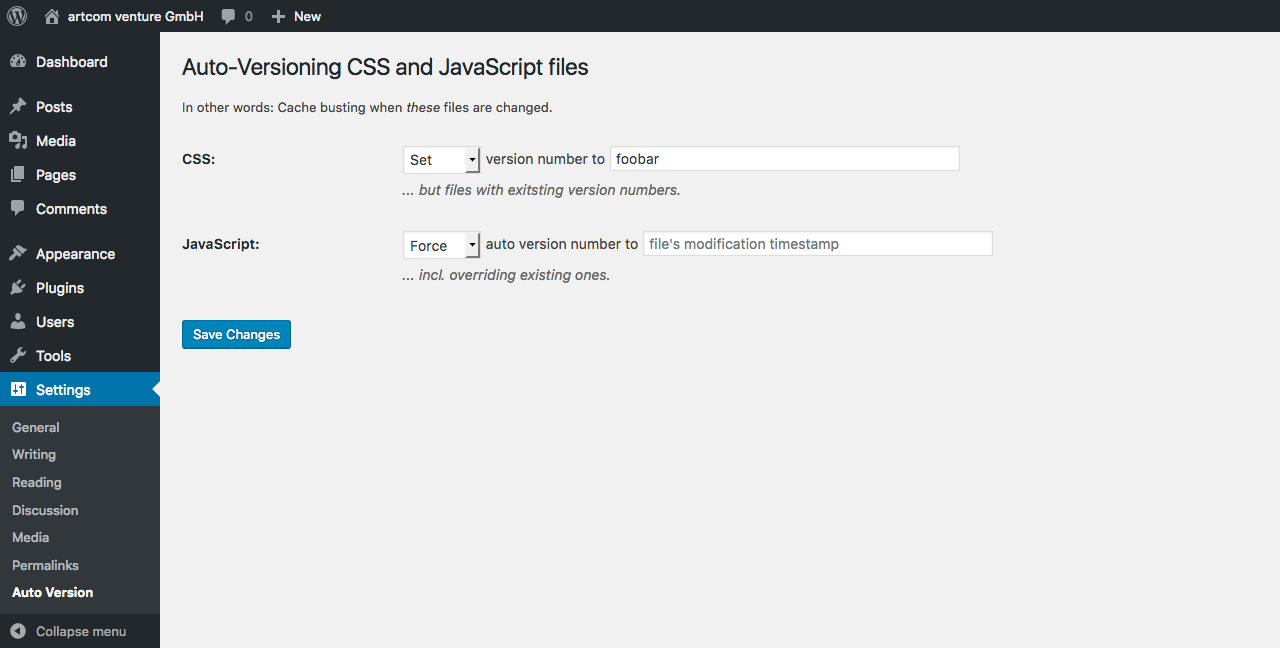
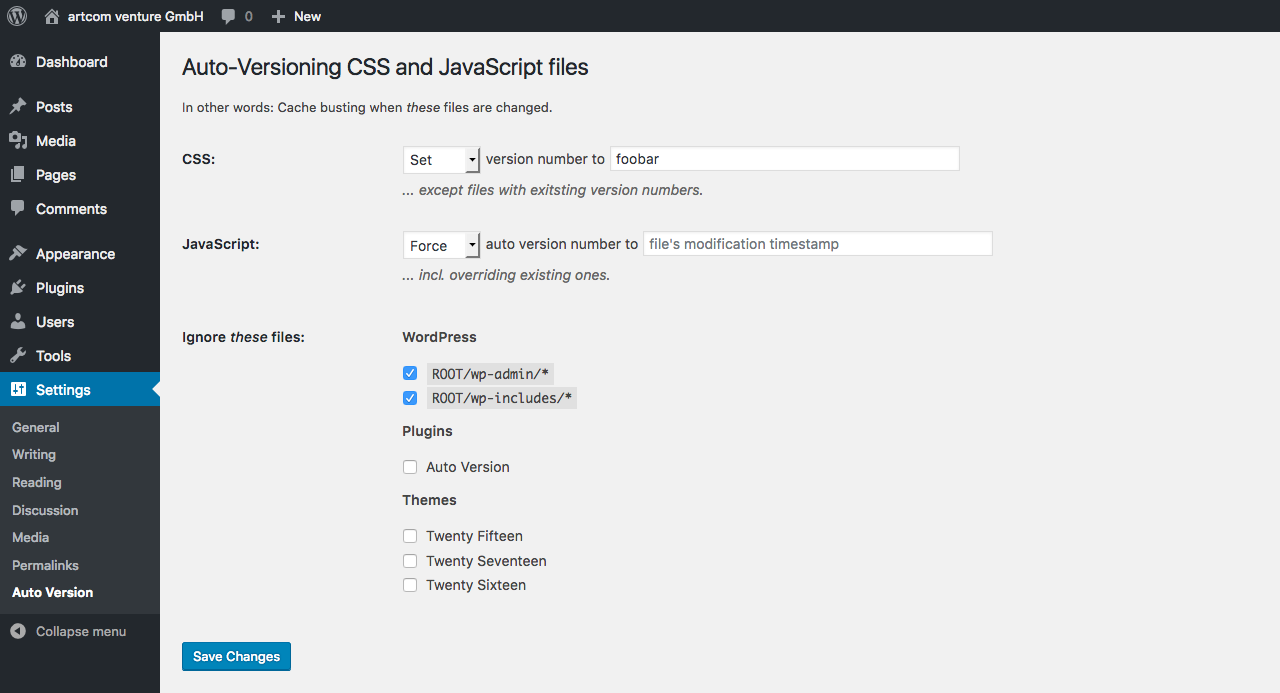
Ignore specific (WP, plugins, themes) files.

diff --git a/auto-version.php b/auto-version.php
@@ -3,8 +3,8 @@
 /**
  * Plugin Name: Auto Version
  * Plugin URI: https://github.com/artcomventure/wordpress-plugin-autoVersion
- * Description: Auto-versioning CSS and JavaScript files
- * Version: 1.0.1
+ * Description: Auto-Versioning CSS and JavaScript files
+ * Version: 1.1.0
  * Text Domain: autoversion
  * Author: artcom venture GmbH
  * Author URI: http://www.artcom-venture.de/
@@ -34,27 +34,54 @@ function autoversion_scripts() {
 	$home_path = ( function_exists( 'get_home_path' ) ? get_home_path() : $_SERVER['DOCUMENT_ROOT'] );
 	$home_url  = preg_quote( get_home_url(), '/' );
 
+	$wp_plugin_dir = WP_PLUGIN_DIR;
+	$wp_theme_dir = dirname( TEMPLATEPATH );
+
 	$settings = autoversion_get_settings();
 
 	// get all css and js files
-	foreach ( array( 'css' => wp_styles(), 'js' => wp_scripts() ) as $type => $files ) {
+	foreach ( array( 'css' => wp_styles(), 'js' => wp_scripts() ) as $filetype => $files ) {
 		// disabled
-		if ( !$settings[$type]['status'] ) continue;
+		if ( !$settings[$filetype]['status'] ) continue;
 
 		// loop through files
-		foreach ( $files->registered as $file ) {
+		foreach ( $files->registered as $data ) {
 			// no version at all
-			if ( is_null( $file->ver ) ) continue;
+			if ( is_null( $data->ver ) ) continue;
 			// no file source OR is no local file
-			if ( ! is_string( $file->src ) || ! preg_match( '/^(\/|' . $home_url . ')/', $file->src ) ) continue;
+			if ( ! is_string( $data->src ) || ! preg_match( '/^(\/|' . $home_url . ')/', $data->src ) ) continue;
 			// don't override existing version numbers
-			if ( $settings[$type]['status'] == 1 && is_string( $file->ver ) ) continue;
+			if ( $settings[$filetype]['status'] == 1 && is_string( $data->ver ) ) continue;
+
+			// relative path from root
+			$file_src = $home_path . preg_replace( '/^' . $home_url . '/', '', $data->src );
+
+			// loop through files to ignore
+			foreach ( $settings['ignore'] as $type => $list ) {
+				foreach ( array_filter( $list ) as $file => $ignore ) {
+					if ( ( $pattern = dirname( $file ) ) == '.' ) $pattern = $file;
+
+					if ( preg_match( '#^' . ( $type == 'plugins' ? $wp_plugin_dir : ( $type == 'themes' ? $wp_theme_dir : $home_path ) ) . '/(' . $pattern . ')#', $file_src ) ) {
+						$file_src = false;
+						continue;
+					}
+				}
+
+				if ( !$file_src ) continue;
+			}
+
+			if ( !$file_src ) continue;
+
+			$version = $data->ver;
 
 			// change version number
 			// to entered version _number_ or to file's modification timestamp
-			$file->ver = $settings[$type]['ver'] === ''
-				? @filemtime( $home_path . preg_replace( '/^' . $home_url . '/', '', $file->src ) )
-				: $settings[$type]['ver'];
+			$data->ver = $settings[$filetype]['ver'] === ''
+				? @filemtime( $file_src )
+				: $settings[$filetype]['ver'];
+
+			// revert
+			if ( is_null( $data->ver ) ) $data->ver = $version;
 		}
 	}
 }

diff --git a/build/auto-version.php b/build/auto-version.php
@@ -3,8 +3,8 @@
 /**
  * Plugin Name: Auto Version
  * Plugin URI: https://github.com/artcomventure/wordpress-plugin-autoVersion
- * Description: Auto-versioning CSS and JavaScript files
- * Version: 1.0.1
+ * Description: Auto-Versioning CSS and JavaScript files
+ * Version: 1.1.0
  * Text Domain: autoversion
  * Author: artcom venture GmbH
  * Author URI: http://www.artcom-venture.de/
@@ -34,27 +34,54 @@ function autoversion_scripts() {
 	$home_path = ( function_exists( 'get_home_path' ) ? get_home_path() : $_SERVER['DOCUMENT_ROOT'] );
 	$home_url  = preg_quote( get_home_url(), '/' );
 
+	$wp_plugin_dir = WP_PLUGIN_DIR;
+	$wp_theme_dir = dirname( TEMPLATEPATH );
+
 	$settings = autoversion_get_settings();
 
 	// get all css and js files
-	foreach ( array( 'css' => wp_styles(), 'js' => wp_scripts() ) as $type => $files ) {
+	foreach ( array( 'css' => wp_styles(), 'js' => wp_scripts() ) as $filetype => $files ) {
 		// disabled
-		if ( !$settings[$type]['status'] ) continue;
+		if ( !$settings[$filetype]['status'] ) continue;
 
 		// loop through files
-		foreach ( $files->registered as $file ) {
+		foreach ( $files->registered as $data ) {
 			// no version at all
-			if ( is_null( $file->ver ) ) continue;
+			if ( is_null( $data->ver ) ) continue;
 			// no file source OR is no local file
-			if ( ! is_string( $file->src ) || ! preg_match( '/^(\/|' . $home_url . ')/', $file->src ) ) continue;
+			if ( ! is_string( $data->src ) || ! preg_match( '/^(\/|' . $home_url . ')/', $data->src ) ) continue;
 			// don't override existing version numbers
-			if ( $settings[$type]['status'] == 1 && is_string( $file->ver ) ) continue;
+			if ( $settings[$filetype]['status'] == 1 && is_string( $data->ver ) ) continue;
+
+			// relative path from root
+			$file_src = $home_path . preg_replace( '/^' . $home_url . '/', '', $data->src );
+
+			// loop through files to ignore
+			foreach ( $settings['ignore'] as $type => $list ) {
+				foreach ( array_filter( $list ) as $file => $ignore ) {
+					if ( ( $pattern = dirname( $file ) ) == '.' ) $pattern = $file;
+
+					if ( preg_match( '#^' . ( $type == 'plugins' ? $wp_plugin_dir : ( $type == 'themes' ? $wp_theme_dir : $home_path ) ) . '/(' . $pattern . ')#', $file_src ) ) {
+						$file_src = false;
+						continue;
+					}
+				}
+
+				if ( !$file_src ) continue;
+			}
+
+			if ( !$file_src ) continue;
+
+			$version = $data->ver;
 
 			// change version number
 			// to entered version _number_ or to file's modification timestamp
-			$file->ver = $settings[$type]['ver'] === ''
-				? @filemtime( $home_path . preg_replace( '/^' . $home_url . '/', '', $file->src ) )
-				: $settings[$type]['ver'];
+			$data->ver = $settings[$filetype]['ver'] === ''
+				? @filemtime( $file_src )
+				: $settings[$filetype]['ver'];
+
+			// revert
+			if ( is_null( $data->ver ) ) $data->ver = $version;
 		}
 	}
 }

diff --git a/build/inc/settings.form.php b/build/inc/settings.form.php
@@ -22,7 +22,7 @@
 						<select name="autoversion[<?php echo $type ?>][status]">
 							<option value="0" title=""<?php selected( 0, $settings[$type]['status'] ) ?>><?php _e( 'Disable', 'autoversion' ); ?></option>
 							<option value="1"<?php selected( 1, $settings[$type]['status'] ) ?>
-							        title="<?php _e( '... but files with exitsting version numbers.', 'autoversion' ) ?>">
+							        title="<?php _e( '... except files with exitsting version numbers.', 'autoversion' ) ?>">
 								<?php _e( 'Set', 'autoversion' ); ?>
 							</option>
 							<option value="2"<?php selected( 2, $settings[$type]['status'] ) ?>
@@ -38,6 +38,40 @@
 				</tr>
 
 			<?php endforeach; ?>
+
+			</tbody>
+		</table>
+
+		<table class="form-table">
+			<tbody>
+			<tr valign="top">
+				<th scope="row">
+					<?php _e( 'Ignore <i>these</i> files', 'autoversion' ); ?>:
+				</th>
+				<td>
+					<?php foreach ( array(
+						__( 'WordPress' ) => array( 'wp-admin' => array( 'Name' => '<code>ROOT/wp-admin/*</code>' ), 'wp-includes' => array( 'Name' => '<code>ROOT/wp-includes/*</code>' ) ),
+						'Plugins' => get_plugins(),
+						'Themes' => wp_get_themes()
+					) as $type => $list ) :
+						if ( !count( $list ) ) continue;
+
+						printf( '<h4 style="margin-top: 5px;">%s</h4>', __( $type, 'autoversion' ) ); ?>
+						<ul>
+						<?php foreach ( $list as $file => $data ) : ?>
+							<li>
+								<label style="display: block;">
+									<input type="checkbox" class="regular-checkbox"
+									       name="autoversion[ignore][<?php echo strtolower( $type ) ?>][<?php echo $file ?>]"
+									       value="1"<?php checked( $settings['ignore'][strtolower( $type )][$file] ); ?> />
+									<?php echo $data['Name']; ?>
+								</label>
+							</li>
+						<?php endforeach; ?>
+						</ul>
+					<?php endforeach; ?>
+				</td>
+			</tr>
 
 			</tbody>
 		</table>

diff --git a/inc/settings.form.php b/inc/settings.form.php
@@ -22,7 +22,7 @@
 						<select name="autoversion[<?php echo $type ?>][status]">
 							<option value="0" title=""<?php selected( 0, $settings[$type]['status'] ) ?>><?php _e( 'Disable', 'autoversion' ); ?></option>
 							<option value="1"<?php selected( 1, $settings[$type]['status'] ) ?>
-							        title="<?php _e( '... but files with exitsting version numbers.', 'autoversion' ) ?>">
+							        title="<?php _e( '... except files with exitsting version numbers.', 'autoversion' ) ?>">
 								<?php _e( 'Set', 'autoversion' ); ?>
 							</option>
 							<option value="2"<?php selected( 2, $settings[$type]['status'] ) ?>
@@ -38,6 +38,40 @@
 				</tr>
 
 			<?php endforeach; ?>
+
+			</tbody>
+		</table>
+
+		<table class="form-table">
+			<tbody>
+			<tr valign="top">
+				<th scope="row">
+					<?php _e( 'Ignore <i>these</i> files', 'autoversion' ); ?>:
+				</th>
+				<td>
+					<?php foreach ( array(
+						__( 'WordPress' ) => array( 'wp-admin' => array( 'Name' => '<code>ROOT/wp-admin/*</code>' ), 'wp-includes' => array( 'Name' => '<code>ROOT/wp-includes/*</code>' ) ),
+						'Plugins' => get_plugins(),
+						'Themes' => wp_get_themes()
+					) as $type => $list ) :
+						if ( !count( $list ) ) continue;
+
+						printf( '<h4 style="margin-top: 5px;">%s</h4>', __( $type, 'autoversion' ) ); ?>
+						<ul>
+						<?php foreach ( $list as $file => $data ) : ?>
+							<li>
+								<label style="display: block;">
+									<input type="checkbox" class="regular-checkbox"
+									       name="autoversion[ignore][<?php echo strtolower( $type ) ?>][<?php echo $file ?>]"
+									       value="1"<?php checked( $settings['ignore'][strtolower( $type )][$file] ); ?> />
+									<?php echo $data['Name']; ?>
+								</label>
+							</li>
+						<?php endforeach; ?>
+						</ul>
+					<?php endforeach; ?>
+				</td>
+			</tr>
 
 			</tbody>
 		</table>

diff --git a/build/inc/settings.php b/build/inc/settings.php
@@ -29,9 +29,40 @@ function autoversion_settings_page() {
  * @return array
  */
 function autoversion_get_settings() {
-	$settings = get_option( 'autoversion', array() ) + array( 'css' => array(), 'js' => array() );
+	$settings = get_option( 'autoversion', array() ) + array(
+			'css' => array(),
+			'js' => array(),
+			'ignore' => array()
+		);
+
 	$settings['css'] += array( 'status' => 0, 'ver' => '' );
 	$settings['js'] += array( 'status' => 0, 'ver' => '' );
+	$settings['ignore'] += array( 'wordpress' => array(), 'plugins' => array(), 'themes' => array() );
+
+	$reference = array(
+		'wordpress' => array( 'wp-admin' => '', 'wp-includes' => '' ),
+		'plugins' => get_plugins(),
+		'themes' => wp_get_themes()
+	);
+
+	// check if plugins/themes still exists
+	foreach ( $settings['ignore'] as $type => $list ) {
+		foreach ( $list as $file => $data ) {
+			if ( !isset( $reference[$type][$file] ) ) {
+				// remove if not
+				unset( $settings['ignore'][ $type ][ $file ] );
+			}
+		}
+	}
+
+	// fill not ignore ones
+	foreach ( $reference as $type => $list ) {
+		foreach ( $list as $file => $data ) {
+			if ( !isset( $settings['ignore'][$type][$file] ) ) {
+				$settings['ignore'][$type][$file] = 0;
+			}
+		}
+	}
 
 	return $settings;
 }

diff --git a/inc/settings.php b/inc/settings.php
@@ -29,9 +29,40 @@ function autoversion_settings_page() {
  * @return array
  */
 function autoversion_get_settings() {
-	$settings = get_option( 'autoversion', array() ) + array( 'css' => array(), 'js' => array() );
+	$settings = get_option( 'autoversion', array() ) + array(
+			'css' => array(),
+			'js' => array(),
+			'ignore' => array()
+		);
+
 	$settings['css'] += array( 'status' => 0, 'ver' => '' );
 	$settings['js'] += array( 'status' => 0, 'ver' => '' );
+	$settings['ignore'] += array( 'wordpress' => array(), 'plugins' => array(), 'themes' => array() );
+
+	$reference = array(
+		'wordpress' => array( 'wp-admin' => '', 'wp-includes' => '' ),
+		'plugins' => get_plugins(),
+		'themes' => wp_get_themes()
+	);
+
+	// check if plugins/themes still exists
+	foreach ( $settings['ignore'] as $type => $list ) {
+		foreach ( $list as $file => $data ) {
+			if ( !isset( $reference[$type][$file] ) ) {
+				// remove if not
+				unset( $settings['ignore'][ $type ][ $file ] );
+			}
+		}
+	}
+
+	// fill not ignore ones
+	foreach ( $reference as $type => $list ) {
+		foreach ( $list as $file => $data ) {
+			if ( !isset( $settings['ignore'][$type][$file] ) ) {
+				$settings['ignore'][$type][$file] = 0;
+			}
+		}
+	}
 
 	return $settings;
 }

diff --git a/CHANGELOG.md b/CHANGELOG.md
@@ -1,5 +1,10 @@
 # Changelog
 
+## 1.1.0 - 2017-07-19
+**Added**
+
+* Ignore specific (WP, plugins, themes) files.
+
 ## 1.0.1 - 2017-07-18
 **Fixed**
 
